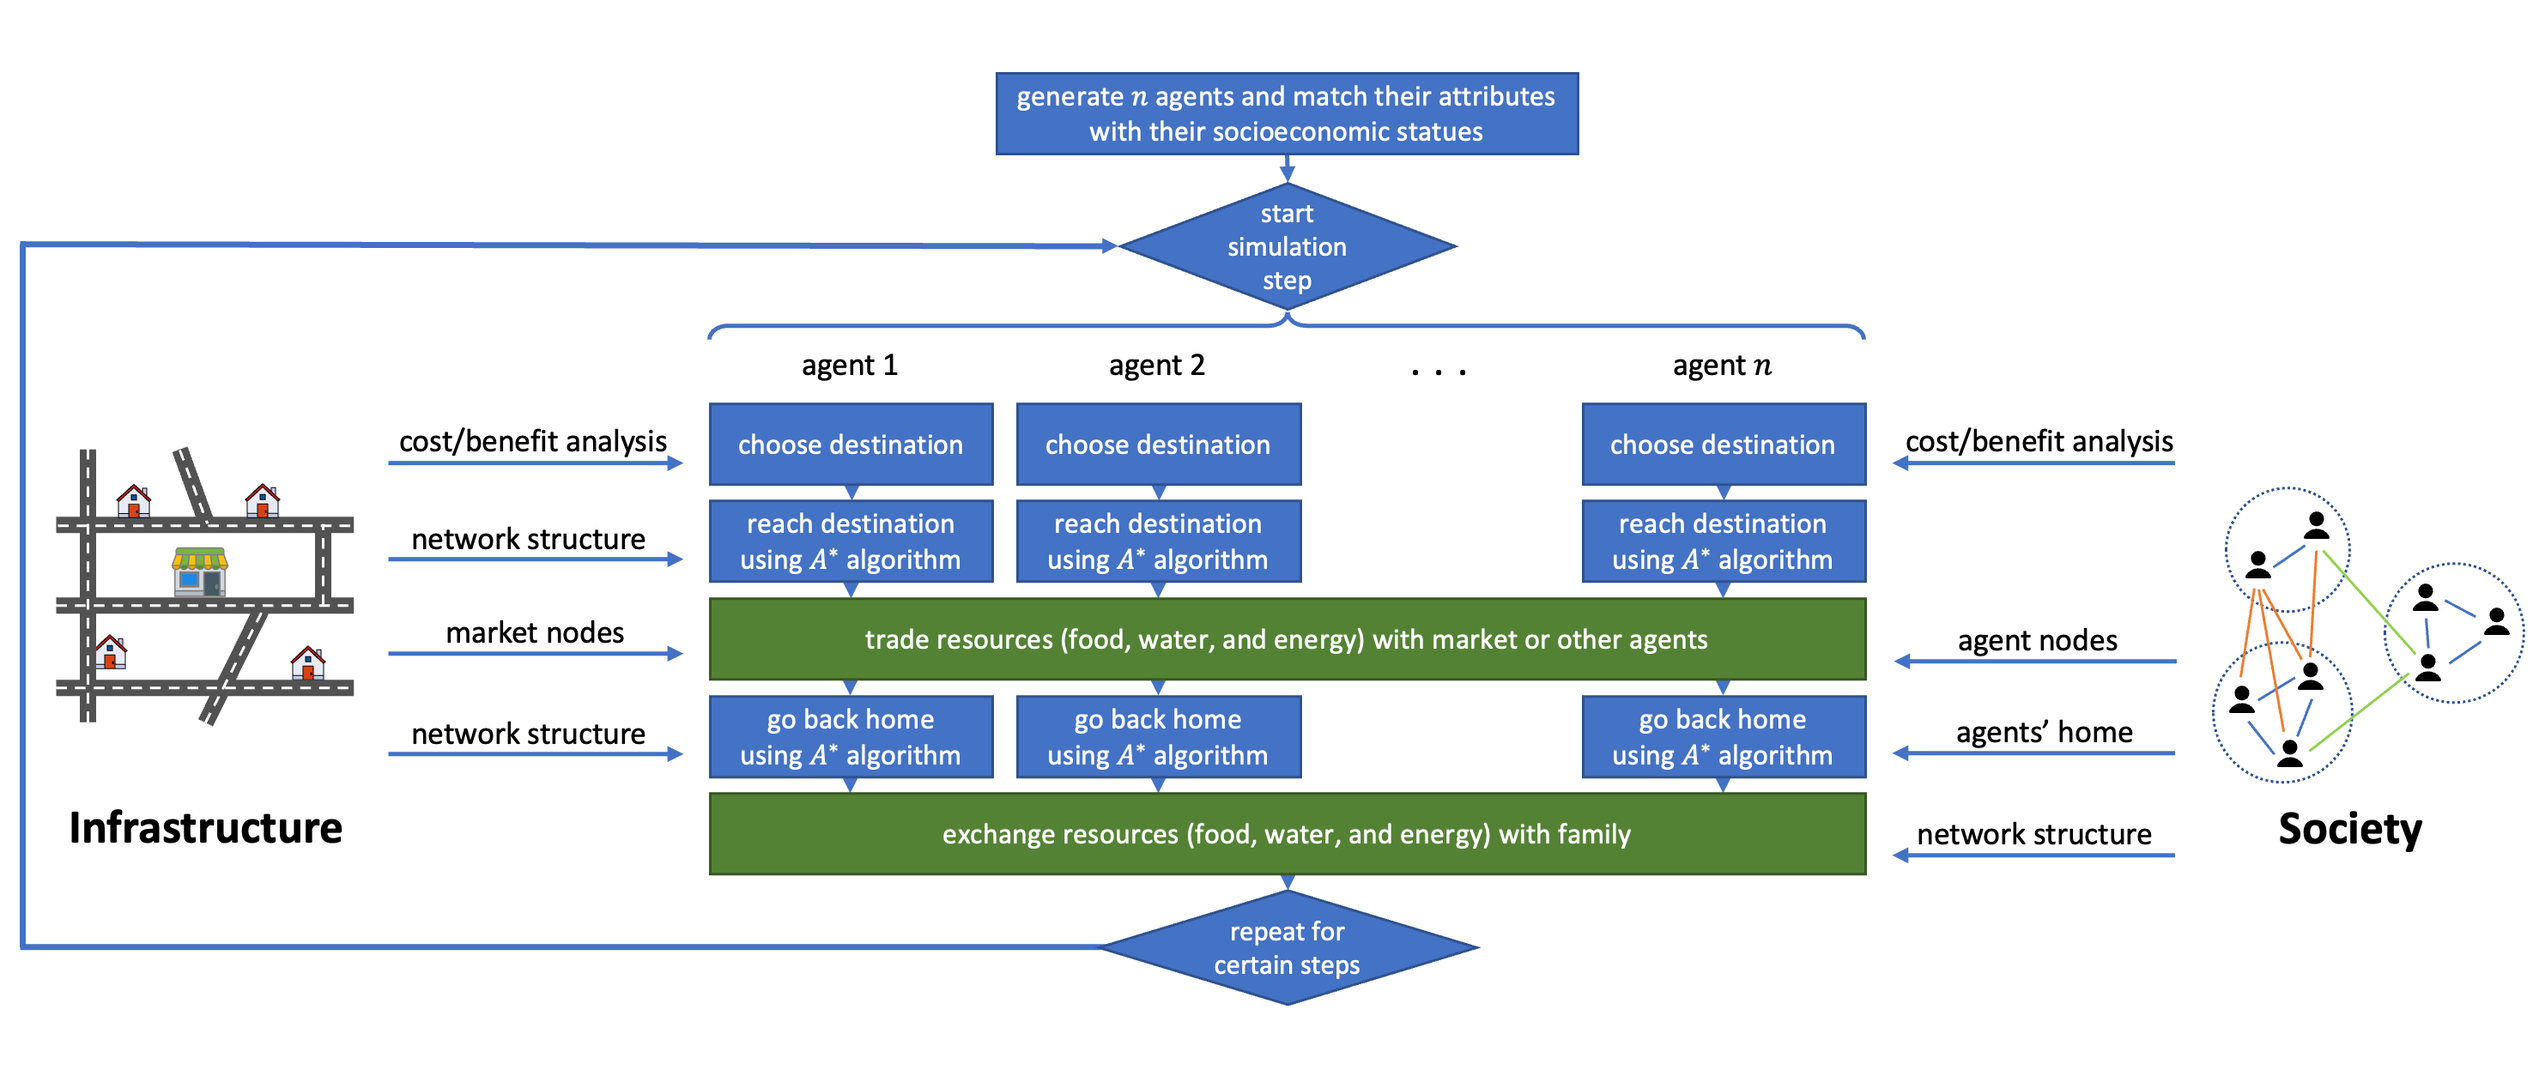
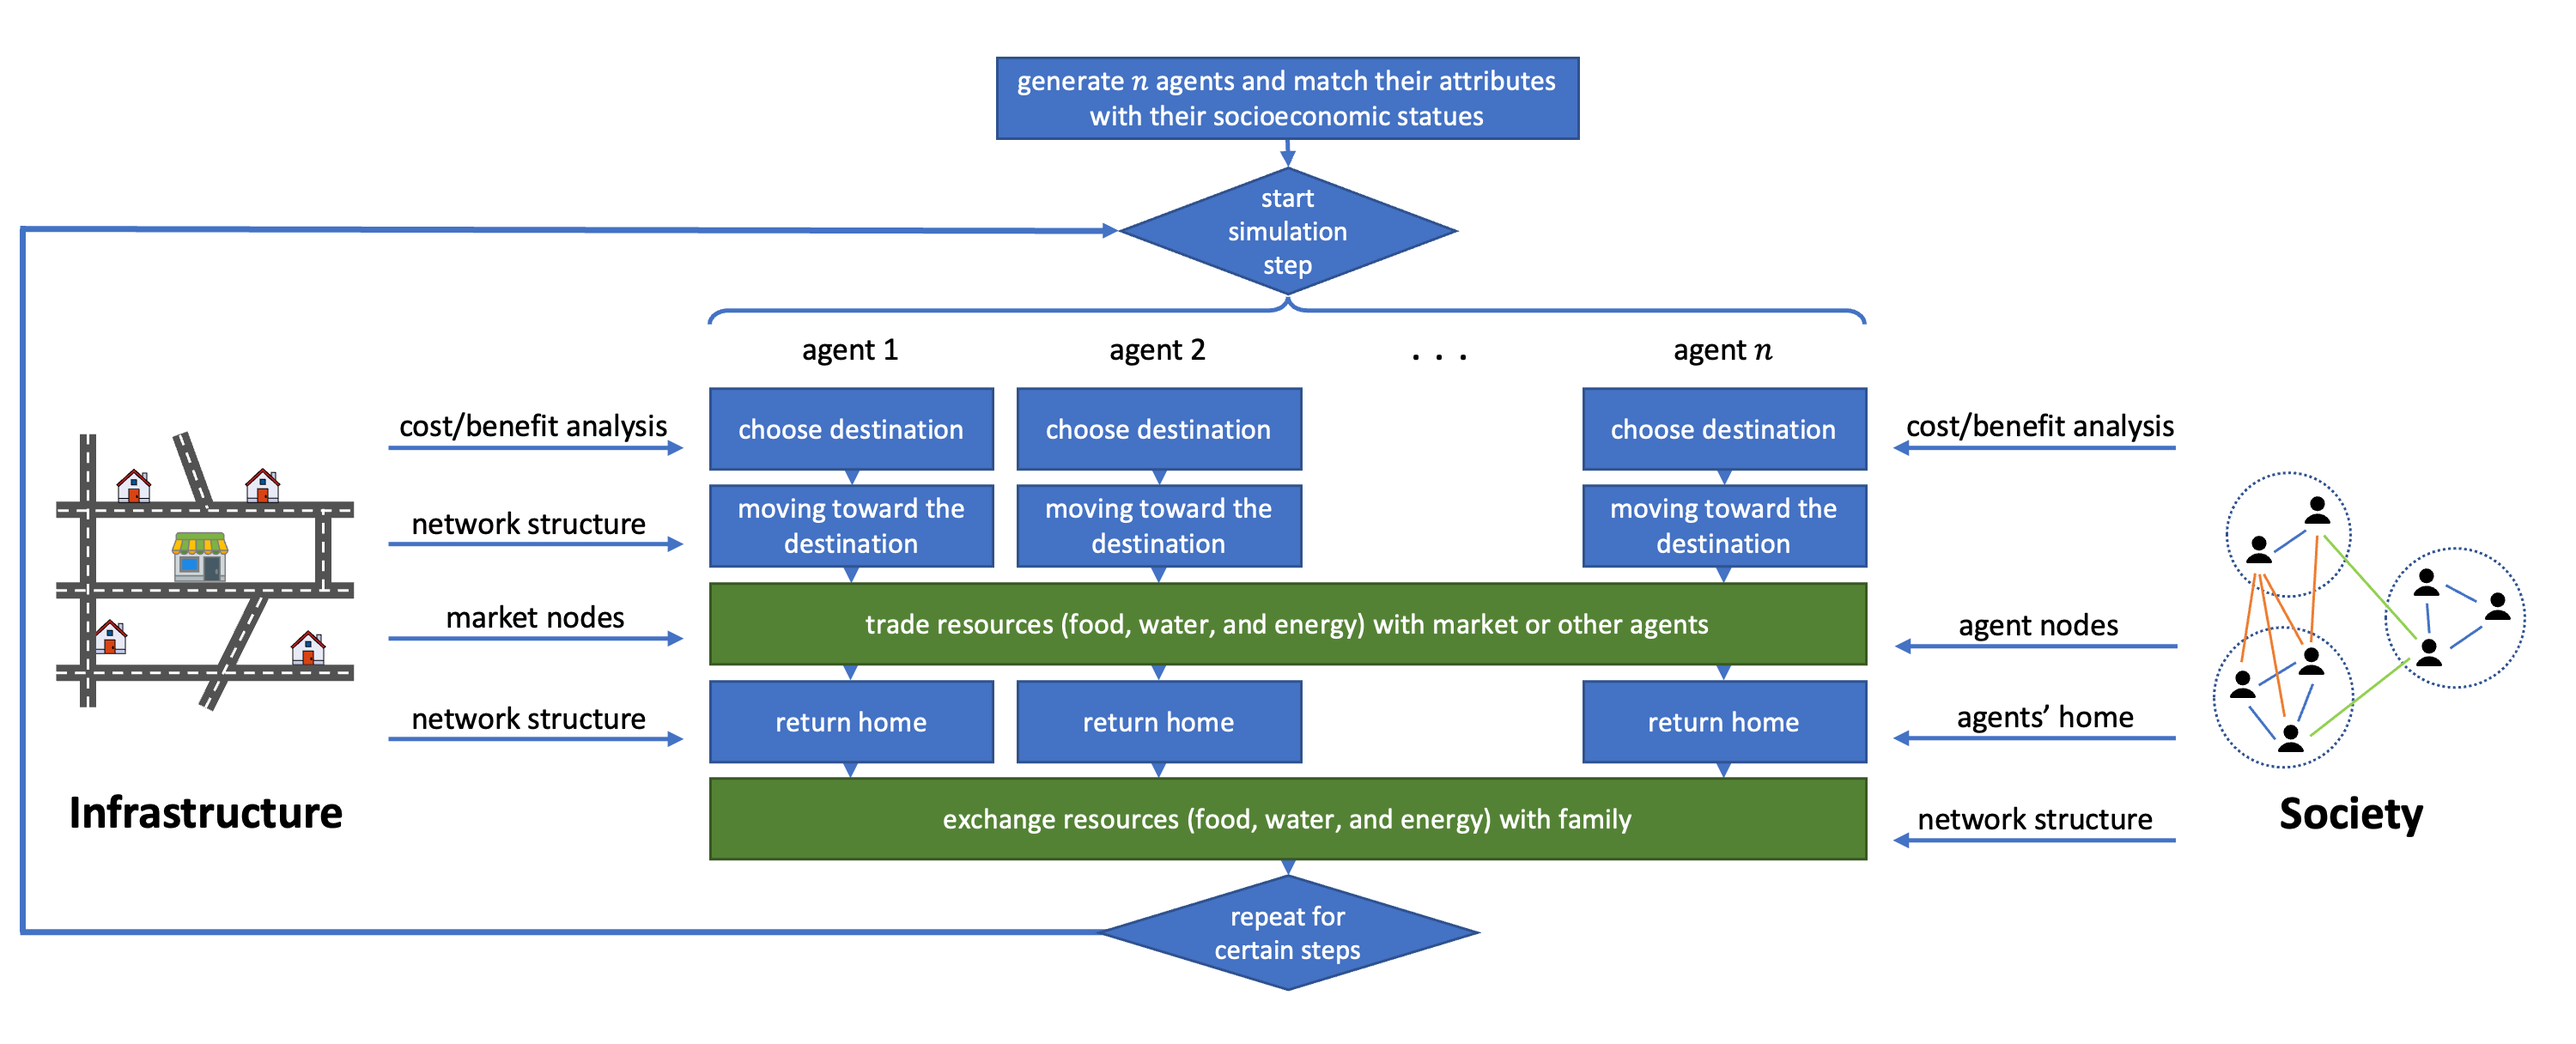
Updated figure.

Changed region(s): [[0.0, 0.0312, 0.9929, 0.9688], [0.031, 0.75, 0.1551, 0.8125], [0.2482, 0.75, 0.2793, 0.8125]]

diff --git a/paper/paper.md b/paper/paper.md
@@ -44,40 +44,11 @@ Infrastructure resilience is a critical concern for urban planners, emergency ma
 
 Each agent’s accessibility to resources is assessed at every time step to monitor their well-being and ability to meet their needs. The term accessibility \(A_{i,t,r}\) for agent *i* at time *t* for resource *r* is computed as
 
-$$
-A_{i,t,r} = \frac{R_{i,t}}{R^{\max}_{i}}
-\label{eq:accessibility_i_t_r}
-$$
-
-where \(R_{i,t}\) is the amount of resource *r* that agent *i* possesses at time *t*, and \(R^{\max}_{i}\) is the maximum capacity of resource *r* that agent *i* can have. A value of 1 indicates full accessibility.
-
-To aggregate across the *R* different resources for each agent, we use the geometric mean:
-
-[$$
-A_{i,t} = \left(\prod_{r=1}^R A_{i,t,r}\right)^{\frac{1}{R}}
-$$]{label="eq:accessibility_i_t"}
-
-This ensures that low accessibility in any single resource strongly impacts the overall score—if any \(A_{i,t,r}=0\), then \(A_{i,t}=0\) and the agent is considered dead.
-
-Across all *N* agents at each time step, the community’s average accessibility is
-
-$$
-A_t = \frac{1}{N}\sum_{i=1}^N A_{i,t}
-\label{eq:accessibility_t}
-$$
-
-Finally, a time-weighted overall accessibility over the simulation duration \(T\) is
-
-$$
-A = \frac{\int_{0}^{T} A_t \,\mathrm{d}t}{\int_{0}^{T} A_{\max} \,\mathrm{d}t}
-\label{eq:accessibility_overall}
-$$
-
-where \(A_{\max}=1\) is the maximum possible accessibility.
-
 ## Travel Distance
 
+In the context of agent-based modeling, *traveled distance* serves as a metric for assessing the efficiency and functionality of transportation networks within a simulated environment. This measurement tracks the cumulative distance agents must traverse between various points, e.g. from home to market. 
 
+When this measurement yields a low value, it indicates that the system is operating with high efficiency, allowing agents to traverse shorter distances between points to satisfy their needs. Alternatively, it could signal that various barriers, constraints, or issues are impeding agents’ access to essential network nodes, thus limiting their ability to move freely within the system and reach their goals. This dual interpretation helps in diagnosing the underlying causes of system performance, guiding targeted improvements in urban planning and resource distribution.
 
 # Comparison to Existing Tools
 
